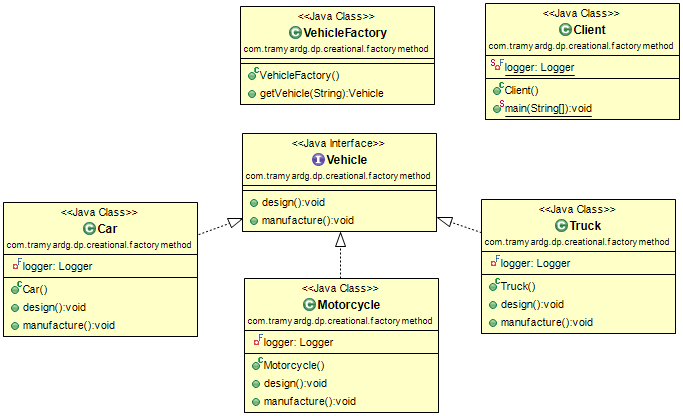
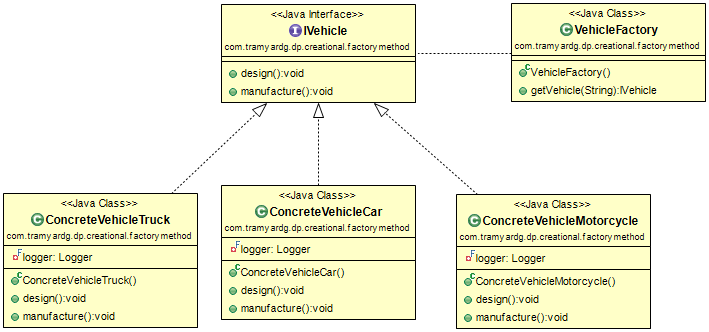
factory method refactored

diff --git a/src/main/java/com/tramyardg/dp/creational/factorymethod/Client.java b/src/main/java/com/tramyardg/dp/creational/factorymethod/Client.java
@@ -20,17 +20,9 @@ public class Client {
 	VehicleFactory factory = new VehicleFactory();
 	try {
 	    IVehicle car = factory.getVehicle("car");
-	    car.design();
-	    car.manufacture();
-	    
-	    IVehicle motorcycle = factory.getVehicle("motorcycle");
-	    motorcycle.design();
-	    motorcycle.manufacture();
-	    
-	    IVehicle truck = factory.getVehicle("truck");
-	    truck.design();
-	    truck.manufacture();
-	    
+	    car.design(); // prints Designing car
+	    car.manufacture(); // prints Manufacturing car
+	    // similarly, motorcycle and truck would be the same 
 	    IVehicle notSupported = factory.getVehicle("bus");
 	    notSupported.design();
 	    notSupported.manufacture();

diff --git a/src/main/java/com/tramyardg/dp/creational/factorymethod/VehicleFactory.java b/src/main/java/com/tramyardg/dp/creational/factorymethod/VehicleFactory.java
@@ -9,13 +9,10 @@ public class VehicleFactory {
      * @throws VehicleTypeNotFoundException
      */
     public IVehicle getVehicle(String vehicleType) throws VehicleTypeNotFoundException {
-
 	IVehicle vehicle = null;
-
 	if (vehicleType == null) {
 	    return null;
 	}
-
 	switch (vehicleType) {
 	case "car":
 	    vehicle = new ConcreteVehicleCar();
@@ -29,7 +26,6 @@ public class VehicleFactory {
 	default:
 	    throw new VehicleTypeNotFoundException();
 	}
-
 	return vehicle;
     }
 }

diff --git a/src/main/java/com/tramyardg/dp/creational/factorymethod/readme.md b/src/main/java/com/tramyardg/dp/creational/factorymethod/readme.md
@@ -9,44 +9,12 @@ Define the interface for creating an object, but let subclasses decide which cla
 Factory Method lets class defer instantiation to subclasses.
 ```
 
-### Components
-1. An interface or Abstract class (public)
-2. Set of implementation subclasses (private)
-3. A factory method (public) which a client class access
-
 ### UML class diagram
 ![uml](https://github.com/tramyardg/tramyardg-gof-dp/blob/master/src/main/java/com/tramyardg/dp/creational/factorymethod/img_factory_method_uml.png)
-
-### Main program
-```java
-	
-	VehicleFactory factory = new VehicleFactory();
-	try {
-	    Vehicle car = factory.getVehicle("car");
-	    car.design();
-	    car.manufacture();
-	    
-	    Vehicle motorcycle = factory.getVehicle("motorcycle");
-	    motorcycle.design();
-	    motorcycle.manufacture();
-	    
-	    Vehicle truck = factory.getVehicle("truck");
-	    truck.design();
-	    truck.manufacture();
-	    
-	    Vehicle bus = factory.getVehicle("bus");
-	    bus.design();
-	    bus.manufacture();
-	} catch (VehicleTypeNotFoundException e) {
-	    logger.info(e.getMessage());
-	}
-	
-```
 
 ### Benefits
 - Loose coupling allows changing the internals without impacting the customer code.
 - Factory method provides a single point of entry for multiple products.
-- Number of instances and their reusability can be controlled with Singleton or Mutiton.
 
 ### Drawbacks
 - An extra level of abstraction makes the code more difficult to read.
